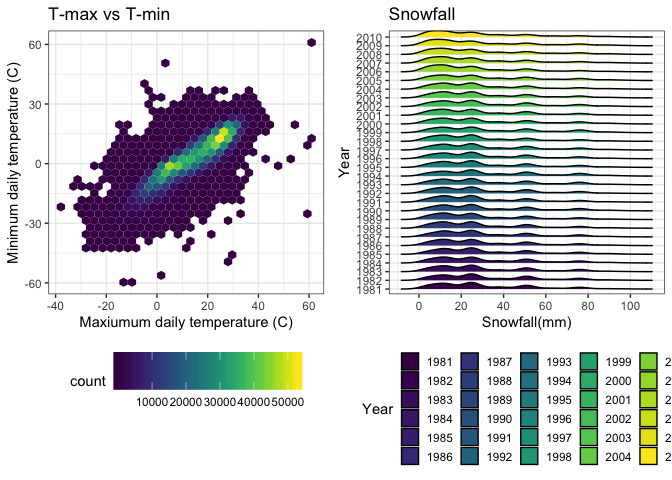
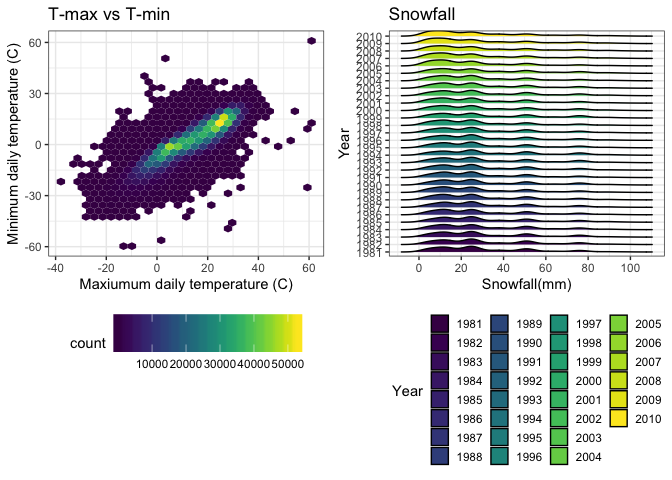
make some change on graph; remove some useless data.

diff --git a/p8105_hw3_qs2200.md b/p8105_hw3_qs2200.md
@@ -15,9 +15,6 @@ brfss_df = p8105.datasets::brfss_smart2010 %>%
   mutate(response = factor(response, levels = c("Excellent", "Very good", "Good","Fair", "Poor")))%>%
   rename(state = locationabbr) %>%
   arrange(response) 
-
-##filter(topic == "Overall Health", response ==c("Excellent", "Very good", "Good","Fair", "Poor"))
-##why can't we filter the rows which response is excellent to poor
 ```
 
 **2. In 2002, which states were observed at 7 locations?**
@@ -25,26 +22,33 @@ brfss_df = p8105.datasets::brfss_smart2010 %>%
 ``` r
 brfss_state = 
   group_by(brfss_df , state) %>%
+  filter(year == 2002) %>%
   summarize(n = n_distinct(locationdesc)) %>%
   filter(n == 7)
 ```
 
-The 7 states CT, MT, NH, NM, OR, TN, UT were observed at 7 locations.
+The 3 states CT, FL, NC were observed at 7 locations.
 
 **3. Make a “spaghetti plot” that shows the number of observations in each state from 2002 to 2010.**
 
 ``` r
 brfss_spa =
   group_by(brfss_df, state,year) %>%
-  summarize(n_obs = n())
+  summarize(n_obs = n()) %>%
+  arrange(n_obs)
 
 ggplot(brfss_spa, aes(x = year, y = n_obs, color = state))+
   geom_line()+geom_point()+
   labs(x = "Year",
-    y = "Number of observations")
+    y = "Number of observations")+
+  viridis::scale_color_viridis(discrete=TRUE, name = "State", guide = guide_legend(nrow = 5))+
+  theme_bw()+
+  theme(legend.position = "bottom")
 ```
 
-![](p8105_hw3_qs2200_files/figure-markdown_github/problem%201.3-1.png) **4. Make a table showing, for the years 2002, 2006, and 2010, the mean and standard deviation of the proportion of “Excellent” responses across locations in NY State.**
+![](p8105_hw3_qs2200_files/figure-markdown_github/problem%201.3-1.png) The "spaghetti plot" shows the number of observations in each state from 2002 to 2010. Most of the states have a constant number of observations, but the observation number dramaticly increased in 2007 and 2010, dramaticly decreased in 2008.
+
+**4. Make a table showing, for the years 2002, 2006, and 2010, the mean and standard deviation of the proportion of “Excellent” responses across locations in NY State.**
 
 ``` r
 brfss_tb =
@@ -63,63 +67,28 @@ brfss_tb =
 |  2006|       22.53|      4.00|
 |  2010|       22.70|      3.57|
 
+The table shows the mean and standard deviation of the proportion of "Excellent" responses across locations in NY for the years 2002, 2006 and 2010. We can see that the proportion of "Excellent" is the highest in 2002, and in 2002 also have the highest standard deviation.
+
 **5.For each year and state, compute the average proportion in each response category (taking the average across locations in a state). Make a five-panel plot that shows, for each response category separately, the distribution of these state-level averages over time.**
 
 ``` r
-aver_exce = 
-  filter(brfss_df, response == "Excellent") %>%
-  group_by(state,year) %>%
-  summarize(mean_prop = mean(data_value)) %>%
+brfss_df %>%
+  group_by(response, state, year) %>%
+  summarise(mean_prop = mean(data_value)) %>%
   ggplot(aes(x = year, y = mean_prop, color = state)) +
-  geom_line() +
-  theme(legend.position = "none")
-
-aver_very = 
-  filter(brfss_df, response == "Very good") %>%
-  group_by(state,year) %>%
-  summarize(mean_prop = mean(data_value)) %>%
-  ggplot(aes(x = year, y = mean_prop, color = state)) +
-  geom_line() +
-  theme(legend.position = "none")
-
-aver_good = 
-  filter(brfss_df, response == "Good") %>%
-  group_by(state,year) %>%
-  summarize(mean_prop = mean(data_value)) %>%
-  ggplot(aes(x = year, y = mean_prop, color = state)) +
-  geom_line() +
-  theme(legend.position = "none")
-
-aver_fair = 
-  filter(brfss_df, response == "Fair") %>%
-  group_by(state,year) %>%
-  summarize(mean_prop = mean(data_value)) %>%
-  ggplot(aes(x = year, y = mean_prop, color = state)) +
-  geom_line() +
-  theme(legend.position = "none")
-
-aver_poor = 
-  filter(brfss_df, response == "Poor") %>%
-  group_by(state,year) %>%
-  summarize(mean_prop = mean(data_value)) %>%
-  ggplot(aes(x = year, y = mean_prop, color = state)) +
-  geom_line() +
+  geom_line()+
+  labs(
+    title = "Average proportion",
+    x = "Year",
+    y = "Average proportion"
+  )+
+  facet_wrap(~response)+
+  viridis::scale_color_viridis(discrete=TRUE, name = "State", guide = guide_legend(nrow = 5))+
+  theme_bw()+
   theme(legend.position = "bottom")
-
-aver_exce + aver_very + aver_good + aver_fair + aver_poor
 ```
 
-    ## Warning: Removed 3 rows containing missing values (geom_path).
-
-    ## Warning: Removed 2 rows containing missing values (geom_path).
-
-    ## Warning: Removed 2 rows containing missing values (geom_path).
-
-    ## Warning: Removed 1 rows containing missing values (geom_path).
-
-    ## Warning: Removed 1 rows containing missing values (geom_path).
-
-![](p8105_hw3_qs2200_files/figure-markdown_github/problem%201.5-1.png)
+![](p8105_hw3_qs2200_files/figure-markdown_github/problem%201.5-1.png) From the five panel plot, we can see the proportion of each response category over time. "Very good" have the highest proportion among all five responses, and "Poor" have the lowest. For most states, the distributions within each category remains relatively constant.
 
 Problem 2
 ---------
@@ -132,18 +101,20 @@ instacart_df = p8105.datasets::instacart
 
 The dataset is about online purchase order in Instacart.
 
-There are 15 variables in the dataset, in which the "eval\_set", "aisle", "product\_name", "department" are character variables, others are all integer variables.These variables contain the id and category of products in each order, the user and id of an order, the time each order is placed and the time each product is added to the cart and so on.
+There are 15 variables in the dataset, in which the "eval\_set", "aisle", "product\_name", "department" are character variables, others are all integer variables.These variables contain the id and category of products in each order, the user and id of an order, the time each order is placed and the time each product is added to the cart, if it is reordered by same user, .
 
-There are 1384617 observations in the dataset, each one represents a product in an order. For example, the first row in the dataset illustrate the order id is 1, the product id is 49302. It is the first product added in cart in order 1, and it has been reordered by the user 112108 in the past.This order belongs to the train evaluation set, and is the 4th order of the user. This order is placed on the 4th day of a week, 10 a.m., and it has been 9 days since last order was placed.The product is Bulgarian Yogurt, in dairy and egg department (id: 16), yogurt aisle(id: 120).
+There are 1384617 observations in the dataset, each one represents a product in an order.
+
+For example, the first row in the dataset illustrate the order id is 1, the product id is 49302. It is the first product added in cart in order 1, and it has been reordered by the user 112108 in the past.This order belongs to the train evaluation set, and is the 4th order of the user. This order is placed on the 4th day of a week, 10 a.m., and it has been 9 days since last order was placed.The product is Bulgarian Yogurt, in dairy and egg department (id: 16), yogurt aisle(id: 120).
 
 **2. How many aisles are there, and which aisles are the most items ordered from?**
 
 ``` r
-aisle_max = as.data.frame(table(instacart_df$aisle))%>%
-  filter(Freq == max(Freq)) 
+aisle_max = as.data.frame(count(instacart_df, aisle))%>%
+  filter(n == max(n)) 
 ```
 
-There are 134 alsles there.The aisle "fresh vegetables" is the most items ordered from.
+There are 134 alsles there.The aisle "fresh vegetables" is the most items ordered from. 150609 are from this"
 
 **3. Make a plot that shows the number of items ordered in each aisle. Order aisles sensibly, and organize your plot so others can read it.**
 
@@ -151,14 +122,17 @@ There are 134 alsles there.The aisle "fresh vegetables" is the most items ordere
 instacart_df %>%
   group_by(aisle, department) %>%
   summarize(n = n()) %>%
-  ggplot(aes(x = aisle, y = n))+
-  geom_bar(stat="identity")+
-  facet_wrap( ~ department,ncol = 3,scale = "free")
+  ggplot(aes(x= aisle, y= n))+
+  coord_flip()+
+  geom_bar(stat="identity", fill = "#F1C40F") +
+    labs(title = "Number of orders across all aisles in different department", 
+         y = "Number of Orders", 
+         x = "Aisle",
+         cex=3) +
+  facet_wrap( ~ department, ncol = 1, scales ="free" ) 
 ```
 
-![](p8105_hw3_qs2200_files/figure-markdown_github/problem%202.3-1.png)
-
-**4. Make a table showing the most popular item aisles “baking ingredients”, “dog food care”, and “packaged vegetables fruits”.**
+![](p8105_hw3_qs2200_files/figure-markdown_github/problem%202.3-1.png) This plot shows the number of items ordered in each aisle, and the aisles are classified by department. **4. Make a table showing the most popular item aisles “baking ingredients”, “dog food care”, and “packaged vegetables fruits”.**
 
 ``` r
 instacart_df %>%
@@ -179,6 +153,8 @@ instacart_df %>%
 
 ``` r
 instacart_df %>%
+  mutate(order_dow = ordered(order_dow, levels = c(0:6), labels = c("Sunday", "Monday", "Tuesday", "Wednesday", "Thursday", "Friday", "Saturday"))) %>% 
+  group_by(product_name, order_dow) %>%
   filter(product_name %in% c("Pink Lady Apples", "Coffee Ice Cream")) %>%
   group_by(order_dow, product_name) %>%
   summarize(mean_hour = mean(order_hour_of_day)) %>%
@@ -186,15 +162,15 @@ instacart_df %>%
   knitr::kable(digits = 1)
 ```
 
-|  order\_dow|  Coffee Ice Cream|  Pink Lady Apples|
-|-----------:|-----------------:|-----------------:|
-|           0|              13.8|              13.4|
-|           1|              14.3|              11.4|
-|           2|              15.4|              11.7|
-|           3|              15.3|              14.2|
-|           4|              15.2|              11.6|
-|           5|              12.3|              12.8|
-|           6|              13.8|              11.9|
+| order\_dow |  Coffee Ice Cream|  Pink Lady Apples|
+|:-----------|-----------------:|-----------------:|
+| Sunday     |              13.8|              13.4|
+| Monday     |              14.3|              11.4|
+| Tuesday    |              15.4|              11.7|
+| Wednesday  |              15.3|              14.2|
+| Thursday   |              15.2|              11.6|
+| Friday     |              12.3|              12.8|
+| Saturday   |              13.8|              11.9|
 
 Problem 3
 =========
@@ -231,7 +207,7 @@ tail(ny_noaa)
     ## 5 USW00094789 2010-12-31     0     0   229 44    -11  
     ## 6 USW00094790 2010-12-31     0    NA    NA 117   44
 
-This dataset contains climate data in New York from 1981-01-01 to 2010-12-31. It have 7 variables, which are weather station id, date of observation, and five core weather variables: Precipitation, Snowfall, Snow depth, Maximum temperature, Minimum temperature.
+This dataset contains climate data in New York from 1981-01-01 to 2010-12-31. It have 7 variables, which are weather station id, date of observation, and five core weather variables: Precipitation, Snowfall, Snow depth, Maximum temperature, Minimum temperature.In precipitation, there are 145838 missing values. There are also 381221, 591786, 1134358, 1134420 missing values respectively in Precipitation, Snowfall, Snow depth, Maximum temperature, Minimum temperature variables. The large number of missing value makes it harder to analysis the data.
 
 There are 2595176 observations in 747 weather stations during 30 years.
 
@@ -241,7 +217,7 @@ There are 2595176 observations in 747 weather stations during 30 years.
 ny_noaa =
   separate(ny_noaa, date, into = c("year", "month", "date"), sep = "-") %>%
   mutate(tmax = (as.numeric(tmax)/10), tmin = (as.numeric(tmin)/10),
-         month = month.name[as.integer(month)])
+         prcp = prcp / 10,month = month.name[as.integer(month)])
   
 
 ny_noaa_snow =
@@ -271,7 +247,7 @@ ny_ave_max = ny_noaa %>%
   theme(panel.spacing = unit(1, "lines"))
 ```
 
-Based on the 2-panel plot, we can find that the average max temperature in January and in July are obviously different. The max temperature in January is around -10 to 10 , in July is around 20 to 35 . In January, the outliers tend to have higher temperature than whiskers, indicating that sometimes temperature in January are extremely high than average. In July, the outliers tend to have lower temperature than whiskers, indicating that some temperature in July are extremely low than average
+Based on the 2-panel plot, we can find that the average max temperature in January and in July are obviously different. The max temperature in January is around -10 to 10 , in July is around 20 to 35 . In January, the outliers tend to have higher temperature than whiskers, indicating that sometimes temperature in January are extremely high than average. In July, the outliers tend to have lower temperature than whiskers, indicating that some temperature in July are extremely low than average.
 
 **4.Make a two-panel plot showing (i) tmax vs tmin for the full dataset (note that a scatterplot may not be the best option); and (ii) make a plot showing the distribution of snowfall values greater than 0 and less than 100 separately by year.**
 
@@ -298,16 +274,17 @@ snow_fall = ny_noaa %>%
     x = "Snowfall(mm)",
     y = "Year"
   )+
-  viridis::scale_fill_viridis(discrete=TRUE, name = "Year")+
+  viridis::scale_fill_viridis(discrete=TRUE, name = "Year", guide = guide_legend(nrow = 8))+
   scale_x_continuous(breaks = c(0,20,40,60,80,100))+
   theme_bw()+
   theme(legend.position = "bottom", legend.key.size=unit(0.5,'cm'))
+  
 
 tmax_tmin+snow_fall
 ```
 
-    ## Warning: Removed 1136276 rows containing non-finite values (stat_binhex).
-
     ## Picking joint bandwidth of 3.76
 
-![](p8105_hw3_qs2200_files/figure-markdown_github/problem%203.4-1.png)
+![](p8105_hw3_qs2200_files/figure-markdown_github/problem%203.4-1.png) From the T-max vs T-min graph, we can see the relationship between tmax and tmin. The highest density appears in the middle of the plot.
+
+From the snowfall graph, we can find that for most of year, there are 4 snowfall peaks in density, which are around 10, 25, 50 and 70mm. Most of year have similar distribution of snowfall value.
